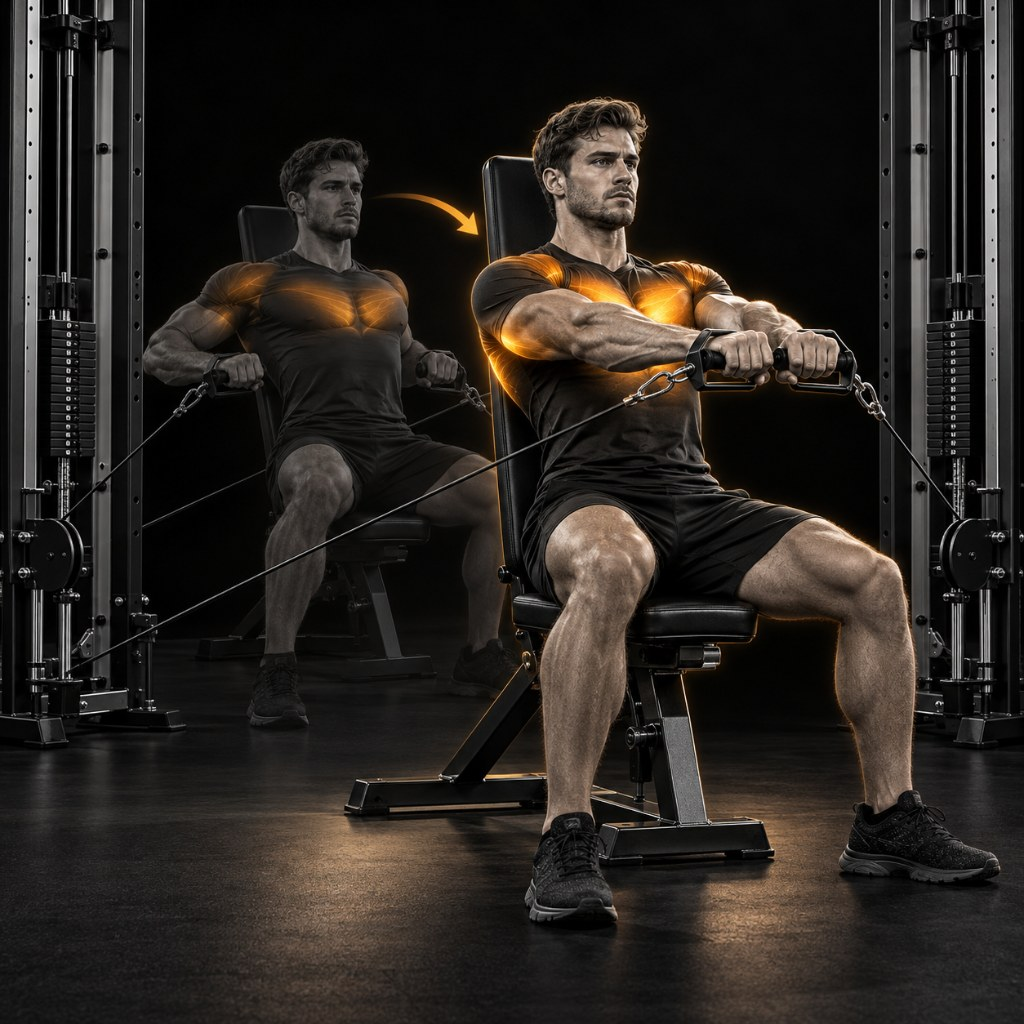
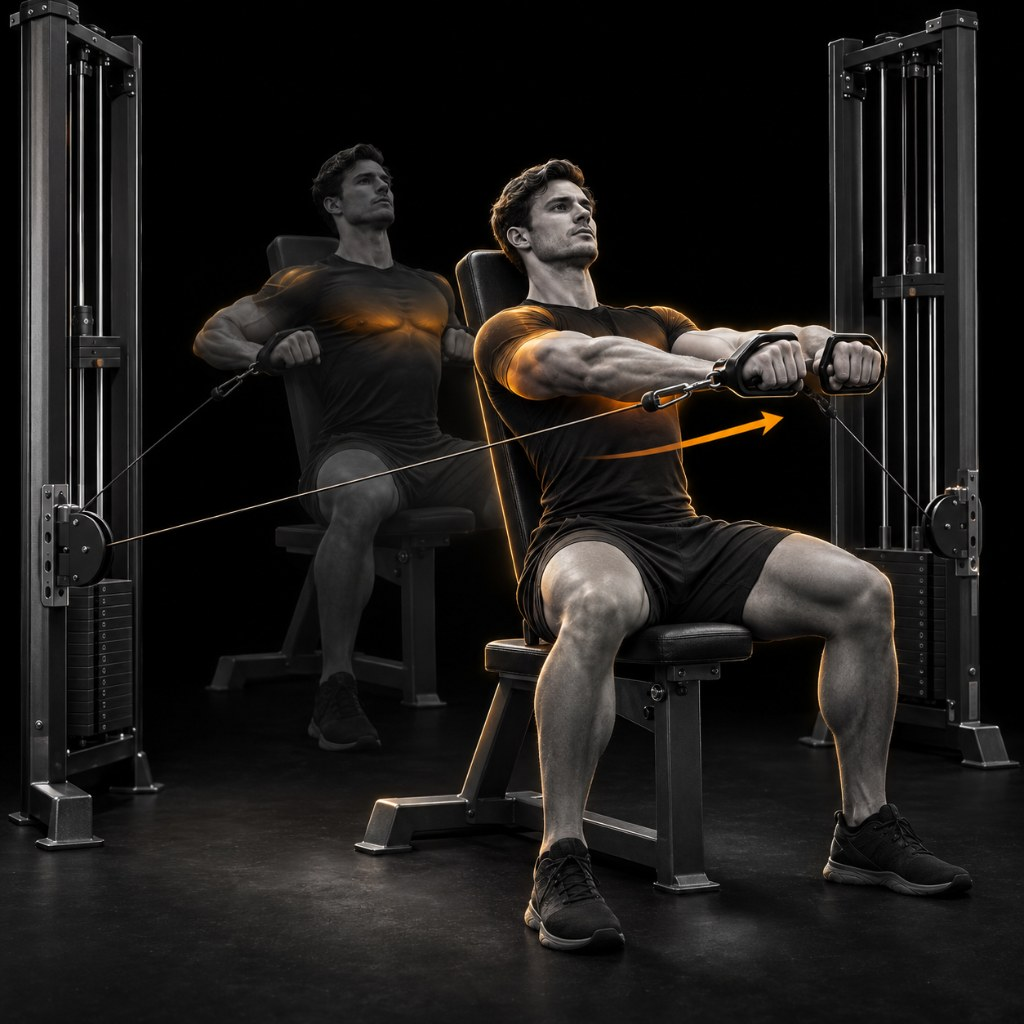
Chest Press Cable: Rollen auf ca. 45 cm (Bild Mann/Frau + Text) (31.10. 20:20)
Claude-Session: https://claude.ai/code/session_01Shd4vmsa3BFJUpncrqw4yj

diff --git a/index.html b/index.html
@@ -800,8 +800,8 @@ function ringBell(at){const c=audioCtx,T=c.currentTime+at,out=c.createDynamicsCo
  [[1,1],[2.76,.55],[5.4,.32],[8.93,.18],[13.3,.08]].forEach(([r,a])=>{const o=c.createOscillator(),g=c.createGain();o.type='sine';o.frequency.value=880*r;g.gain.setValueAtTime(.0001,T);g.gain.exponentialRampToValueAtTime(1.1*a,T+.003);g.gain.exponentialRampToValueAtTime(.0001,T+.75/Math.sqrt(r));o.connect(g);g.connect(out);o.start(T);o.stop(T+.8)})}
 function boxBell(at){[0,.17,.34].forEach(d=>ringBell(at+d))}
 function beep(){if(document.hidden)return;try{if(rawEl&&!customBuf){playRaw();return}if(!audioCtx)return;if(audioCtx.state!=='running'){const t0=Date.now();audioCtx.resume().then(()=>{if(audioCtx.state==='running'&&Date.now()-t0<1500&&!document.hidden)beepNow()}).catch(()=>{});return}beepNow()}catch(e){}}
-const APPV='31.10. 19:55'
-let _updChk=0;async function checkUpdate(){if(location.hostname!=='donpntlc.github.io'||Date.now()-_updChk<60000)return;_updChk=Date.now();try{const t=await (await fetch(location.pathname+'?u='+Date.now(),{cache:'no-store'})).text();const m=t.match(/const APPV='([^']+)'/);if(!m||m[1]===APPV)return;
+const APPV='31.10. 20:20'
+let _updChk=0;async function checkUpdate(){if(location.hostname!=='donpntlc.github.io'||Date.now()-_updChk<60000)return;_updChk=Date.now();try{const t=await (await fetch(location.pathname+'?u='+Date.now(),{cache:'no-store'})).text();const m=t.match(/const APPV='31.10. 20:20']+)'/);if(!m||m[1]===APPV)return;
  if(!S.active){toast('Neue Version wird geladen …');setTimeout(()=>location.replace(location.pathname+'?v='+Date.now()),900)}else toast('Neue Version da. Nach dem Training App neu öffnen.')}catch(e){}}
 document.addEventListener('visibilitychange',()=>{if(!document.hidden)checkUpdate()});setTimeout(checkUpdate,4000);
 function soundMode(){try{return localStorage.getItem('hantelbuch.soundmode')||'before'}catch(e){return 'before'}}
@@ -959,7 +959,7 @@ function noteHist(name){const out=[];let lastNote=null;const ss=sessions(name).s
 function slug(n){return String(n).toLowerCase().replace(/ä/g,'ae').replace(/ö/g,'oe').replace(/ü/g,'ue').replace(/ß/g,'ss').replace(/[^a-z0-9]+/g,'-').replace(/^-|-$/g,'')}
 function gender(){try{return localStorage.getItem('hantelbuch.gender')||'m'}catch(e){return 'm'}}
 const IMG_ALIAS={"Push Up": "Liegestütze", "Pull Up": "Klimmzüge", "Pull Up (Warm Up)": "Klimmzüge", "1. Pull up +kg": "Klimmzüge", "2. Pull up +kg": "Klimmzüge", "Chest Dip": "Dips", "1. Chest Dip +kg": "Dips", "2. Chest Dip +kg": "Dips", "Triceps Dip (Assisted)": "Dips", "Bicep Curl (Dumbbell)": "Kurzhantelcurls", "Bicep Curl (Cable)": "Kabelcurls", "Bicep Curl (Barbell)": "Langhantelcurls", "Lat Pulldown (Cable)": "Latzug", "Seated Wide-Grip Row (Cable)": "Kabelrudern sitzend", "Seated Close-Grip Row (Cable)": "Kabelrudern sitzend", "Low Row": "Kabelrudern sitzend", "Seated Row (Machine)": "Kabelrudern sitzend", "Incline Bench Press (Smith Machine)": "Schrägbankdrücken (Langhantel)", "Squat (Barbell)": "Kniebeuge", "Front Raise (Dumbbell)": "Frontheben", "Lateral Raise (Dumbbell)": "Seitheben", "Lateral Raise (Cable)": "Seitheben am Kabel", "Triceps Pushdown (Cable - Straight Bar)": "Trizepsdrücken am Kabel", "Triceps push down mashine": "Trizepsdrücken am Kabel", "Triceps Extension (Cable)": "Überkopf-Trizeps (Kabel)", "Stiff Leg Deadlift (Dumbbell)": "Rumänisches Kreuzheben", "Reverse Fly (Machine)": "Reverse Butterfly", "Reverse Fly (Cable)": "Reverse Butterfly", "Shoulder Press Dumbbell": "Schulterdrücken (Kurzhantel)", "Leg Extension (Machine)": "Beinstrecker", "Hack Squat": "Hackenschmidt", "Seated Leg Curl (Machine)": "Beinbeuger sitzend", "Lying Leg Curl (Machine)": "Beinbeuger liegend", "Leg Press": "Beinpresse", "Hip Adductor (Machine)": "Adduktoren (Maschine)", "Hip Abductor (Machine)": "Abduktoren (Maschine)", "Bench Press (Dumbbell)": "Bankdrücken (Kurzhantel)", "Skullcrusher (Dumbbell)": "French Press", "Deficit Deadlift (Barbell)": "Deficit Deadlift (Trap Bar)", "Chest Fly": "Butterfly (Maschine)", "Lat Pull (Single Arm) - Front": "Latzug"};
-const EXDESC={"Chest Press Cable 2. (to the ground)":["steht mittig zwischen zwei Kabeltürmen, die Rollen ganz oben eingestellt (man muss fast springen, um die Griffe zu holen). Die Ellbogen zeigen hoch Richtung Rollen. Dann drückt man die Griffe schräg nach unten Richtung Füsse und führt die Hände vor der Hüfte zusammen","untere Brust","Trizeps, vordere Schulter","Leichte Schrittstellung für Halt, Oberkörper leicht nach vorne. Unten die Hände kurz zusammendrücken und die untere Brust anspannen, dann langsam zurück nach oben."],"Chest Press (Cable)":["sitzt mittig zwischen zwei Kabeltürmen auf einer Bank (ca. 1 m vor den Türmen, Lehne ca. 75°), die Rollen sind etwa auf Kniehöhe eingestellt, je ein Griff in jeder Hand, Handflächen nach unten (Daumen zeigen nach innen). Mit leichtem Hohlkreuz drückt man die Griffe von der Brust gerade nach vorne und führt die Hände am Ende vorne zusammen","untere und mittlere Brust","vordere Schulter, Trizeps","Erst mit leichtem Gewicht die Position finden: Bank so weit vorne, dass die Kabel schon am Anfang Spannung haben. Gerade nach vorne drücken, nicht nach oben. Vorne kurz die Brust zusammendrücken, dann langsam zurück."],"Stairmaster":["steigt auf dem Stairmaster gleichmässig Stufe für Stufe, Oberkörper aufrecht, Hände nur leicht am Geländer","Gesäss, Quadrizeps","Waden, Herz-Kreislauf"],"Laufband (Steigung gehen)":["geht zügig auf dem Laufband mit hoher Steigung, ohne sich festzuhalten","Gesäss, Waden","Herz-Kreislauf"],"Kabelcurls einarmig":["steht seitlich zum Kabelturm, Rolle ganz unten, greift den Einhand-Griff und curlt ihn mit einem Arm zur Schulter, Ellbogen bleibt am Körper","Bizeps","Unterarme","Leichtes Gewicht, Ellbogen fest an der Seite. Oben kurz anspannen, langsam ablassen bis der Arm fast gestreckt ist. Erst links, dann rechts."],"Deficit Deadlift (Trap Bar)":["steht erhöht auf einer Platte in der sechseckigen Trap Bar, greift die seitlichen Griffe und hebt die Stange aus der tieferen Startposition bis zum aufrechten Stand, Rücken neutral, Druck über die ganzen Füsse","Gesäss, Quadrizeps, Rückenstrecker","Beinbeuger, oberer Rücken, Unterarme","Starte mit leichtem Gewicht und kleiner Erhöhung. Brust hoch, Hüfte und Schultern steigen gleichzeitig. Erst die Tiefe sauber beherrschen, dann Gewicht steigern."],"Dragon Flag":["liegt auf einer Flachbank, hält sich hinter dem Kopf an der Bank fest und hebt den ganzen Körper gestreckt bis auf die Schultern an, dann senkt sie ihn langsam und gerade wieder ab, ohne in der Hüfte abzuknicken","gerader Bauchmuskel, tiefe Bauchmuskulatur","Latissimus, Hüftbeuger, Gesäss","Schritt 1: Nur langsam absenken (Negativ), mit angewinkelten Knien. Schritt 2: Ein Bein gestreckt. Schritt 3: Beide Beine gestreckt. Der Körper bleibt immer eine gerade Linie, das Gewicht liegt auf den Schultern, nicht auf dem Nacken."],"Sprawl": ["lässt sich aus der Kampfstellung fallen, schiesst die Beine gestreckt nach hinten, drückt die Hüfte auf den Boden, stützt mit den Händen vorne ab und springt sofort zurück in die Kampfstellung", "Hüftbeuger, Bauch, Brust", "Schultern, Beine, Ausdauer", "Erst langsam in drei Teilen: Hände runter, Beine zurück, Hüfte runter. Kopf bleibt oben, Blick nach vorne. Dann Tempo steigern. Ziel: 10 saubere Sprawls in unter 20 Sekunden."], "Double-Leg-Shot (Ringen)": ["senkt aus der Kampfstellung die Hüfte, macht einen tiefen Schritt nach vorne (Penetration Step), das hintere Knie tippt kurz den Boden, die Arme greifen um beide Oberschenkel, der Kopf ist seitlich am Körper, dann drückt das hintere Bein nach vorne durch", "Beine, Gesäss", "Rücken, Nacken, Bauch", "Zuerst nur den Schritt an einer Linie entlang üben, ohne Partner. Rücken gerade, Kopf hoch, nie auf den Boden schauen. Wenn das sitzt, mit Partner oder Dummy den Griff und das Durchdrücken dazunehmen."], "Ringerbrücke": ["liegt auf dem Rücken, Füsse nah am Gesäss, drückt die Hüfte hoch und rollt kontrolliert auf den Kopf, sodass Nacken und Rücken einen Bogen bilden", "Nacken, Rückenstrecker", "Gesäss, Beinbeuger", "Nur auf weicher Matte. Am Anfang die Hände neben dem Kopf mit abstützen und langsam vor und zurück rollen, nie ruckartig. Mit Nackenproblemen weglassen."], "Kip-up": ["liegt auf dem Rücken, rollt die Beine über den Kopf zurück, Hände neben den Ohren, schnellt dann Beine und Hüfte explosiv nach vorne-oben, stösst sich mit den Händen ab und landet auf den Füssen", "Hüftbeuger, Bauch, Trizeps", "Schultern, Rücken", "Schritt 1: Zurückrollen und Hände neben die Ohren, ein paar Mal. Schritt 2: Beine kräftig nach vorne-oben kicken, Hüfte hoch, erst von einer erhöhten Matte aus. Schritt 3: Mit den Händen gleichzeitig abstossen und die Füsse unter den Körper ziehen. Auf weicher Matte üben."], "Technical Stand-up": ["steht aus der Bodenlage sicher auf: eine Hand hinten am Boden, der gegenüberliegende Fuss aufgestellt, Hüfte hoch, das andere Bein nach hinten durchziehen, die freie Hand bleibt oben als Deckung", "Bauch, Beine", "Schultern, Gesäss", "Beide Seiten langsam üben, Blick und Deckung immer nach vorne. Dann im Wechsel hinlegen und aufstehen, immer schneller."], "Hip Escape (Shrimp)": ["liegt auf dem Rücken, stellt einen Fuss auf, dreht sich auf die Seite und schiebt die Hüfte kräftig nach hinten weg, die Hände schieben dabei nach vorne", "schräge Bauchmuskeln, Gesäss", "Beine, Schultern", "Über die ganze Mattenlänge, die Seite jedes Mal wechseln. Die Hüfte wirklich wegschieben, nicht nur rollen."], "Sit-out (Ringen)": ["kniet in der Bankstellung, schiebt ein Bein unter dem Körper durch, dreht sich auf die Hüfte und kommt seitlich frei, Brust Richtung Boden", "Bauch, Hüftbeuger", "Schultern, Trizeps", "Erst langsam auf jeder Seite. Dann auf Kommando explosiv rausdrehen und sofort zurück in die Bank."], "Schattenboxen (Sek.)": ["boxt in der Kampfstellung gegen einen gedachten Gegner: Jab, Cross, Haken, dazu Kopfbewegung und Beinarbeit", "Schultern, Bauch", "Waden, Ausdauer", "Runden à 3 Minuten mit 1 Minute Pause. Nach jedem Schlag zurück in die Deckung, Kinn runter. Neue Kombinationen zuerst langsam und sauber."], "Boxsack (Sek.)": ["schlägt Kombinationen am Boxsack, bleibt dabei in Bewegung und hält die Deckung", "Schultern, Brust, Bauch", "Rücken, Beine, Ausdauer", "Runden à 2 bis 3 Minuten. Lieber locker und schnell als hart und langsam. Bandagen und Handschuhe tragen."], "Seilspringen (Sek.)": ["springt locker auf den Fussballen, Ellbogen nah am Körper, das Seil dreht aus den Handgelenken", "Waden", "Schultern, Ausdauer", "Erst einfache Sprünge, 30 Sekunden am Stück. Dann Wechselschritt wie beim Boxen, später Doppelsprünge."], "Burpees": ["geht in die Hocke, springt mit den Beinen nach hinten in den Liegestütz, macht einen Liegestütz, springt die Beine zurück und springt hoch", "Beine, Brust, Bauch", "Schultern, Ausdauer", "Sauber vor schnell. Für Kampfsport den Liegestütz durch einen Sprawl ersetzen, Hüfte runter statt Brust."],"Twisted Curls (Kurzhantel)":["curlt abwechselnd mit einem Arm (der andere bleibt unten), hebt die Kurzhantel bis der Ellbogen etwa im rechten Winkel ist, dreht dort das Handgelenk einmal nach innen und wieder zurück und senkt dann ab, danach der andere Arm","Bizeps, Unterarm","Brachialis"],"Bankdrücken (Langhantel)":["liegt auf der Flachbank, Füsse fest am Boden, Hände etwas breiter als schulterbreit, Unterarme senkrecht, Ellbogen ca. 45° vom Körper. Die Stange kontrolliert auf das Brustbein (Höhe Brustwarzen) senken und gerade nach oben drücken","grosser Brustmuskel","vordere Schulter, Trizeps"],"Schrägbankdrücken (Langhantel)":["liegt auf einer ca. 30° geneigten Schrägbank und drückt die Langhantel von der oberen Brust nach oben","oberer Brustmuskel","vordere Schulter, Trizeps"],"Bankdrücken (Kurzhantel)":["liegt auf der Flachbank und drückt zwei Kurzhanteln von Brusthöhe nach oben, Handflächen zeigen Richtung Füsse","grosser Brustmuskel","vordere Schulter, Trizeps"],"Schrägbankdrücken (Kurzhantel)":["liegt auf einer ca. 30° geneigten Schrägbank und drückt zwei Kurzhanteln nach oben","oberer Brustmuskel","vordere Schulter, Trizeps"],"Butterfly (Maschine)":["sitzt aufrecht an der Butterfly-Maschine und führt die leicht gebeugten Arme in einem Bogen vor der Brust zusammen","grosser Brustmuskel","vordere Schulter"],"Kabelzug-Fliegende":["steht mittig zwischen zwei Kabeltürmen, leicht vorgebeugt, und führt die Griffe in einem weiten Bogen vor der Brust zusammen","grosser Brustmuskel","vordere Schulter"],"Dips":["stützt sich am Barren, Oberkörper leicht nach vorne geneigt, senkt sich bis die Oberarme parallel zum Boden sind und drückt sich hoch","untere Brust, Trizeps","vordere Schulter"],"Liegestütze":["klassische Liegestütze, Körper in einer geraden Linie, Hände etwas breiter als schulterbreit, Brust fast am Boden","grosser Brustmuskel","Trizeps, vordere Schulter, Bauchmuskeln"],"Brustpresse (Maschine)":["sitzt an der Brustpresse und drückt die Griffe von Brusthöhe nach vorne","grosser Brustmuskel","vordere Schulter, Trizeps"],"Kreuzheben":["hebt eine beladene Langhantel vom Boden bis zum aufrechten Stand, Rücken neutral, Stange nah am Körper","Gesäss, Rückenstrecker, Beinbeuger","Quadrizeps, oberer Rücken, Unterarme"],"Klimmzüge":["hängt im Obergriff etwa schulterbreit an der Stange und zieht sich hoch, bis das Kinn über der Stange ist","breiter Rückenmuskel (Latissimus)","Bizeps, hintere Schulter, mittlerer Rücken"],"Latzug":["sitzt am Latzug, Oberschenkel fixiert, und zieht die breite Stange zur oberen Brust","breiter Rückenmuskel (Latissimus)","Bizeps, mittlerer Rücken"],"Langhantelrudern":["steht mit ca. 45° vorgebeugtem Oberkörper, Rücken neutral, und zieht die Langhantel zum Bauchnabel","Latissimus, mittlerer Rücken (Rhomboiden, mittlerer Trapez)","hintere Schulter, Bizeps, Rückenstrecker"],"Kurzhantelrudern":["stützt ein Knie und eine Hand auf der Flachbank und zieht mit dem anderen Arm eine Kurzhantel zur Hüfte","Latissimus, mittlerer Rücken","hintere Schulter, Bizeps"],"Kabelrudern sitzend":["sitzt aufrecht am Kabelzug, Füsse an der Plattform, und zieht den V-Griff zum Bauch, Schulterblätter zusammen","mittlerer Rücken, Latissimus","Bizeps, hintere Schulter"],"T-Bar-Rudern":["steht über der T-Bar, Oberkörper vorgebeugt, Rücken neutral, und zieht die Griffe zur Brust","mittlerer Rücken, Latissimus","hintere Schulter, Bizeps, Rückenstrecker"],"Face Pulls":["steht vor dem Kabelturm, Seil auf Augenhöhe, und zieht es zum Gesicht, Ellbogen hoch und nach aussen","hintere Schulter, oberer Rücken (Rhomboiden, Trapez)","Rotatorenmanschette"],"Hyperextensions":["liegt auf der 45°-Hyperextension-Bank, Hüfte am Polster, und richtet den Oberkörper bis zur geraden Linie auf","Rückenstrecker, Gesäss","Beinbeuger"],"Schulterdrücken (Langhantel)":["steht aufrecht, Bauch fest, und drückt die Langhantel von den Schultern gerade über den Kopf","vordere und seitliche Schulter","Trizeps, oberer Trapez"],"Schulterdrücken (Kurzhantel)":["sitzt aufrecht auf einer Bank mit Rückenlehne und drückt zwei Kurzhanteln von Schulterhöhe über den Kopf","vordere und seitliche Schulter","Trizeps"],"Seitheben":["steht aufrecht und hebt zwei Kurzhanteln mit leicht gebeugten Armen seitlich bis auf Schulterhöhe","seitliche Schulter","oberer Trapez"],"Seitheben am Kabel":["steht seitlich neben dem Kabelturm und hebt den Griff mit dem entfernten Arm seitlich bis auf Schulterhöhe","seitliche Schulter","oberer Trapez"],"Reverse Butterfly":["sitzt verkehrt herum auf einer kleinen Bank (Lehne senkrecht auf 90°, reicht bis unter die Brust), Brust an der Lehne, Blick zum Kabelturm, etwa eine Fusslänge hinter den Türmen. Die Rollen sind etwa auf Augenhöhe. Die Kabel werden überkreuzt gegriffen: rechte Hand nimmt das linke Kabel, linke Hand das rechte, sodass schon am Anfang volle Spannung auf der hinteren Schulter ist. Dann zieht man die Arme von oben weit nach aussen und schräg nach unten","hintere Schulter","oberer Rücken (Rhomboiden, mittlerer Trapez)","Leichtes Gewicht, Schultern unten lassen, nicht hochziehen. Die Bewegung kommt aus der hinteren Schulter, nicht aus dem Schwung. Aussen kurz halten, langsam zurück, bis sich die Arme vorne wieder kreuzen."],"Frontheben":["steht aufrecht und hebt eine Kurzhantel mit gestrecktem Arm vor dem Körper auf Schulterhöhe","vordere Schulter","oberer Brustmuskel"],"Shrugs":["steht aufrecht mit zwei schweren Kurzhanteln und zieht die Schultern gerade nach oben Richtung Ohren","oberer Trapezmuskel","Unterarme"],"Kniebeuge":["Langhantel auf dem oberen Rücken, beugt die Knie und schiebt die Hüfte nach hinten bis knapp unter parallel, Rücken neutral","Quadrizeps, Gesäss","Adduktoren, Rückenstrecker"],"Frontkniebeuge":["Langhantel vorne auf den Schultern, Ellbogen hoch, Oberkörper aufrecht, beugt die Knie tief","Quadrizeps","Gesäss, oberer Rücken, Bauchmuskeln"],"Beinpresse":["sitzt in der 45°-Beinpresse, Füsse schulterbreit auf der Plattform, und drückt das Gewicht weg","Quadrizeps, Gesäss","Beinbeuger"],"Hackenschmidt":["steht in der Hackenschmidt-Maschine, Rücken am Polster, und beugt und streckt die Knie","Quadrizeps","Gesäss"],"Rumänisches Kreuzheben":["hält die Langhantel, Knie leicht gebeugt, schiebt die Hüfte weit nach hinten und senkt die Stange entlang der Beine bis unter die Knie","Beinbeuger, Gesäss","Rückenstrecker"],"Ausfallschritte":["hält zwei Kurzhanteln und macht einen grossen Schritt nach vorne, hinteres Knie knapp über dem Boden","Quadrizeps, Gesäss","Beinbeuger, Adduktoren"],"Bulgarian Split Squat":["hinterer Fuss auf einer Bank, hält zwei Kurzhanteln und senkt sich auf dem vorderen Bein ab","Quadrizeps und Gesäss des vorderen Beins","Adduktoren"],"Step-ups":["hält zwei Kurzhanteln und steigt mit einem Bein auf eine kniehohe Box","Quadrizeps, Gesäss","Waden"],"Beinstrecker":["sitzt an der Beinstrecker-Maschine und streckt die Beine gegen das Polster","Quadrizeps",""],"Beinbeuger liegend":["liegt bäuchlings an der Beinbeuger-Maschine und zieht die Fersen Richtung Gesäss","Beinbeuger","Waden"],"Beinbeuger sitzend":["sitzt an der Beinbeuger-Maschine und drückt das Polster mit den Unterschenkeln nach unten-hinten","Beinbeuger","Waden"],"Hip Thrust":["oberer Rücken an einer Bank, Langhantel mit Polster auf der Hüfte, drückt die Hüfte nach oben bis der Körper eine gerade Linie bildet","grosser Gesässmuskel","Beinbeuger, Quadrizeps"],"Abduktoren (Maschine)":["sitzt an der Abduktoren-Maschine und drückt die Knie gegen die Polster nach aussen","äusserer Gesässmuskel (Gluteus medius)",""],"Adduktoren (Maschine)":["sitzt an der Adduktoren-Maschine und drückt die Beine gegen die Polster zusammen","Adduktoren (Oberschenkel-Innenseite)",""],"Wadenheben stehend":["steht mit den Fussballen auf einer Erhöhung in der Wadenmaschine und drückt sich auf die Zehenspitzen","Wadenmuskel (Gastrocnemius)",""],"Wadenheben sitzend":["sitzt an der Wadenmaschine, Polster auf den Oberschenkeln, und hebt die Fersen an","Schollenmuskel (Soleus)","Gastrocnemius"],"Langhantelcurls":["steht aufrecht, Ellbogen am Körper, und curlt die Langhantel im Untergriff zur Brust","Bizeps","Unterarme"],"Kurzhantelcurls":["steht aufrecht und curlt zwei Kurzhanteln im Untergriff, Ellbogen bleiben am Körper","Bizeps","Unterarme"],"Hammercurls":["steht aufrecht und curlt zwei Kurzhanteln im neutralen Griff, Daumen zeigen nach oben","Oberarmmuskel (Brachialis), Unterarm (Brachioradialis)","Bizeps"],"Kabelcurls":["steht vor dem Kabelturm und curlt die gerade Stange vom unteren Kabel zur Brust","Bizeps","Unterarme"],"Scottcurls":["sitzt an der Scottbank, Oberarme auf dem Polster, und curlt eine SZ-Stange nach oben","Bizeps","Brachialis"],"Trizepsdrücken am Kabel":["steht vor dem Kabelturm, Ellbogen fest am Körper, und drückt das Seil nach unten bis die Arme gestreckt sind","Trizeps",""],"French Press":["liegt auf der Flachbank und senkt eine SZ-Stange kontrolliert Richtung Stirn, Oberarme bleiben senkrecht","Trizeps",""],"Enges Bankdrücken":["liegt auf der Flachbank und drückt die Langhantel mit schulterbreitem Griff, Ellbogen nah am Körper","Trizeps","Brust, vordere Schulter"],"Überkopf-Trizeps (Kabel)":["steht mit dem Rücken zum Kabelturm, das lange Seil am ganz unten eingestellten Kabel, hält es hinter dem Kopf und streckt die Arme über den Kopf nach vorne-oben","Trizeps (langer Kopf)",""],"Plank (Sek.)":["Unterarmstütz, Körper in einer geraden Linie von Kopf bis Ferse, Bauch fest","gerader Bauchmuskel, tiefe Bauchmuskulatur","Schultern, Gesäss"],"Hängendes Beinheben":["hängt an der Klimmzugstange und hebt die gestreckten Beine bis auf Hüfthöhe oder höher","unterer Bauchmuskel, Hüftbeuger","Unterarme"],"Cable Crunch":["kniet vor dem Kabelturm, Seil neben dem Kopf, und rollt den Oberkörper Richtung Knie ein","gerader Bauchmuskel","schräge Bauchmuskeln"],"Ab Wheel":["kniet und rollt das Bauchrad mit gestreckten Armen nach vorne aus, Rücken neutral","gerader Bauchmuskel, tiefe Bauchmuskulatur","Latissimus, Schultern"],"Russian Twists":["sitzt mit angehobenen Füssen, Oberkörper zurückgelehnt, und dreht eine Gewichtsscheibe von Seite zu Seite","schräge Bauchmuskeln","gerader Bauchmuskel"],"Pallof Press":["steht seitlich zum Kabelturm und drückt den Griff vor der Brust gerade nach vorne, ohne sich mitzudrehen","schräge Bauchmuskeln, tiefe Bauchmuskulatur","Schultern"],"Power Clean":["zieht die Langhantel explosiv vom Boden und fängt sie in der Frontablage auf den Schultern, zeige den Moment der vollen Hüftstreckung","Gesäss, Beinbeuger, Quadrizeps, Trapez","Waden, Schultern, Rückenstrecker"],"Kettlebell Swing":["schwingt die Kettlebell mit explosiver Hüftstreckung bis auf Brusthöhe, Arme locker gestreckt","Gesäss, Beinbeuger","Rückenstrecker, Bauchmuskeln, Schultern"],"Box Jumps":["springt beidbeinig explosiv auf eine hohe Box, zeige den Moment des Absprungs","Quadrizeps, Gesäss, Waden","Beinbeuger"],"Broad Jumps":["beidbeiniger Weitsprung aus dem Stand, zeige die volle Streckung in der Flugphase","Gesäss, Quadrizeps, Waden","Beinbeuger, Schultern"],"Sled Push":["schiebt einen beladenen Schlitten an den zwei Griffstangen (eine Hand pro Stange), Arme gestreckt, Körper stark nach vorne geneigt","Quadrizeps, Gesäss, Waden","Bauchmuskeln, Schultern"],"Medizinball-Wurf":["steht seitlich zur Wand und wirft einen Medizinball mit explosiver Hüft- und Rumpfrotation","schräge Bauchmuskeln, Gesäss","Schultern, Brust"],"Sprints (m)":["sprintet mit hohem Kniehub und kräftigem Armeinsatz, zeige die volle Laufphase","Beinbeuger, Gesäss, Quadrizeps, Waden","Hüftbeuger"],"Farmer's Walk":["geht aufrecht mit je einer schweren Kurzhantel in jeder Hand","Unterarme (Griffkraft), oberer Trapez, Bauchmuskeln","Waden, Gesäss"]};
+const EXDESC={"Chest Press Cable 2. (to the ground)":["steht mittig zwischen zwei Kabeltürmen, die Rollen ganz oben eingestellt (man muss fast springen, um die Griffe zu holen). Die Ellbogen zeigen hoch Richtung Rollen. Dann drückt man die Griffe schräg nach unten Richtung Füsse und führt die Hände vor der Hüfte zusammen","untere Brust","Trizeps, vordere Schulter","Leichte Schrittstellung für Halt, Oberkörper leicht nach vorne. Unten die Hände kurz zusammendrücken und die untere Brust anspannen, dann langsam zurück nach oben."],"Chest Press (Cable)":["sitzt mittig zwischen zwei Kabeltürmen auf einer Bank (ca. 1 m vor den Türmen, Lehne ca. 75°), die Rollen sind auf ca. 45 cm Höhe eingestellt (etwa Sitzhöhe), je ein Griff in jeder Hand, Handflächen nach unten (Daumen zeigen nach innen). Mit leichtem Hohlkreuz drückt man die Griffe von der Brust gerade nach vorne und führt die Hände am Ende vorne zusammen","untere und mittlere Brust","vordere Schulter, Trizeps","Erst mit leichtem Gewicht die Position finden: Bank so weit vorne, dass die Kabel schon am Anfang Spannung haben. Gerade nach vorne drücken, nicht nach oben. Vorne kurz die Brust zusammendrücken, dann langsam zurück."],"Stairmaster":["steigt auf dem Stairmaster gleichmässig Stufe für Stufe, Oberkörper aufrecht, Hände nur leicht am Geländer","Gesäss, Quadrizeps","Waden, Herz-Kreislauf"],"Laufband (Steigung gehen)":["geht zügig auf dem Laufband mit hoher Steigung, ohne sich festzuhalten","Gesäss, Waden","Herz-Kreislauf"],"Kabelcurls einarmig":["steht seitlich zum Kabelturm, Rolle ganz unten, greift den Einhand-Griff und curlt ihn mit einem Arm zur Schulter, Ellbogen bleibt am Körper","Bizeps","Unterarme","Leichtes Gewicht, Ellbogen fest an der Seite. Oben kurz anspannen, langsam ablassen bis der Arm fast gestreckt ist. Erst links, dann rechts."],"Deficit Deadlift (Trap Bar)":["steht erhöht auf einer Platte in der sechseckigen Trap Bar, greift die seitlichen Griffe und hebt die Stange aus der tieferen Startposition bis zum aufrechten Stand, Rücken neutral, Druck über die ganzen Füsse","Gesäss, Quadrizeps, Rückenstrecker","Beinbeuger, oberer Rücken, Unterarme","Starte mit leichtem Gewicht und kleiner Erhöhung. Brust hoch, Hüfte und Schultern steigen gleichzeitig. Erst die Tiefe sauber beherrschen, dann Gewicht steigern."],"Dragon Flag":["liegt auf einer Flachbank, hält sich hinter dem Kopf an der Bank fest und hebt den ganzen Körper gestreckt bis auf die Schultern an, dann senkt sie ihn langsam und gerade wieder ab, ohne in der Hüfte abzuknicken","gerader Bauchmuskel, tiefe Bauchmuskulatur","Latissimus, Hüftbeuger, Gesäss","Schritt 1: Nur langsam absenken (Negativ), mit angewinkelten Knien. Schritt 2: Ein Bein gestreckt. Schritt 3: Beide Beine gestreckt. Der Körper bleibt immer eine gerade Linie, das Gewicht liegt auf den Schultern, nicht auf dem Nacken."],"Sprawl": ["lässt sich aus der Kampfstellung fallen, schiesst die Beine gestreckt nach hinten, drückt die Hüfte auf den Boden, stützt mit den Händen vorne ab und springt sofort zurück in die Kampfstellung", "Hüftbeuger, Bauch, Brust", "Schultern, Beine, Ausdauer", "Erst langsam in drei Teilen: Hände runter, Beine zurück, Hüfte runter. Kopf bleibt oben, Blick nach vorne. Dann Tempo steigern. Ziel: 10 saubere Sprawls in unter 20 Sekunden."], "Double-Leg-Shot (Ringen)": ["senkt aus der Kampfstellung die Hüfte, macht einen tiefen Schritt nach vorne (Penetration Step), das hintere Knie tippt kurz den Boden, die Arme greifen um beide Oberschenkel, der Kopf ist seitlich am Körper, dann drückt das hintere Bein nach vorne durch", "Beine, Gesäss", "Rücken, Nacken, Bauch", "Zuerst nur den Schritt an einer Linie entlang üben, ohne Partner. Rücken gerade, Kopf hoch, nie auf den Boden schauen. Wenn das sitzt, mit Partner oder Dummy den Griff und das Durchdrücken dazunehmen."], "Ringerbrücke": ["liegt auf dem Rücken, Füsse nah am Gesäss, drückt die Hüfte hoch und rollt kontrolliert auf den Kopf, sodass Nacken und Rücken einen Bogen bilden", "Nacken, Rückenstrecker", "Gesäss, Beinbeuger", "Nur auf weicher Matte. Am Anfang die Hände neben dem Kopf mit abstützen und langsam vor und zurück rollen, nie ruckartig. Mit Nackenproblemen weglassen."], "Kip-up": ["liegt auf dem Rücken, rollt die Beine über den Kopf zurück, Hände neben den Ohren, schnellt dann Beine und Hüfte explosiv nach vorne-oben, stösst sich mit den Händen ab und landet auf den Füssen", "Hüftbeuger, Bauch, Trizeps", "Schultern, Rücken", "Schritt 1: Zurückrollen und Hände neben die Ohren, ein paar Mal. Schritt 2: Beine kräftig nach vorne-oben kicken, Hüfte hoch, erst von einer erhöhten Matte aus. Schritt 3: Mit den Händen gleichzeitig abstossen und die Füsse unter den Körper ziehen. Auf weicher Matte üben."], "Technical Stand-up": ["steht aus der Bodenlage sicher auf: eine Hand hinten am Boden, der gegenüberliegende Fuss aufgestellt, Hüfte hoch, das andere Bein nach hinten durchziehen, die freie Hand bleibt oben als Deckung", "Bauch, Beine", "Schultern, Gesäss", "Beide Seiten langsam üben, Blick und Deckung immer nach vorne. Dann im Wechsel hinlegen und aufstehen, immer schneller."], "Hip Escape (Shrimp)": ["liegt auf dem Rücken, stellt einen Fuss auf, dreht sich auf die Seite und schiebt die Hüfte kräftig nach hinten weg, die Hände schieben dabei nach vorne", "schräge Bauchmuskeln, Gesäss", "Beine, Schultern", "Über die ganze Mattenlänge, die Seite jedes Mal wechseln. Die Hüfte wirklich wegschieben, nicht nur rollen."], "Sit-out (Ringen)": ["kniet in der Bankstellung, schiebt ein Bein unter dem Körper durch, dreht sich auf die Hüfte und kommt seitlich frei, Brust Richtung Boden", "Bauch, Hüftbeuger", "Schultern, Trizeps", "Erst langsam auf jeder Seite. Dann auf Kommando explosiv rausdrehen und sofort zurück in die Bank."], "Schattenboxen (Sek.)": ["boxt in der Kampfstellung gegen einen gedachten Gegner: Jab, Cross, Haken, dazu Kopfbewegung und Beinarbeit", "Schultern, Bauch", "Waden, Ausdauer", "Runden à 3 Minuten mit 1 Minute Pause. Nach jedem Schlag zurück in die Deckung, Kinn runter. Neue Kombinationen zuerst langsam und sauber."], "Boxsack (Sek.)": ["schlägt Kombinationen am Boxsack, bleibt dabei in Bewegung und hält die Deckung", "Schultern, Brust, Bauch", "Rücken, Beine, Ausdauer", "Runden à 2 bis 3 Minuten. Lieber locker und schnell als hart und langsam. Bandagen und Handschuhe tragen."], "Seilspringen (Sek.)": ["springt locker auf den Fussballen, Ellbogen nah am Körper, das Seil dreht aus den Handgelenken", "Waden", "Schultern, Ausdauer", "Erst einfache Sprünge, 30 Sekunden am Stück. Dann Wechselschritt wie beim Boxen, später Doppelsprünge."], "Burpees": ["geht in die Hocke, springt mit den Beinen nach hinten in den Liegestütz, macht einen Liegestütz, springt die Beine zurück und springt hoch", "Beine, Brust, Bauch", "Schultern, Ausdauer", "Sauber vor schnell. Für Kampfsport den Liegestütz durch einen Sprawl ersetzen, Hüfte runter statt Brust."],"Twisted Curls (Kurzhantel)":["curlt abwechselnd mit einem Arm (der andere bleibt unten), hebt die Kurzhantel bis der Ellbogen etwa im rechten Winkel ist, dreht dort das Handgelenk einmal nach innen und wieder zurück und senkt dann ab, danach der andere Arm","Bizeps, Unterarm","Brachialis"],"Bankdrücken (Langhantel)":["liegt auf der Flachbank, Füsse fest am Boden, Hände etwas breiter als schulterbreit, Unterarme senkrecht, Ellbogen ca. 45° vom Körper. Die Stange kontrolliert auf das Brustbein (Höhe Brustwarzen) senken und gerade nach oben drücken","grosser Brustmuskel","vordere Schulter, Trizeps"],"Schrägbankdrücken (Langhantel)":["liegt auf einer ca. 30° geneigten Schrägbank und drückt die Langhantel von der oberen Brust nach oben","oberer Brustmuskel","vordere Schulter, Trizeps"],"Bankdrücken (Kurzhantel)":["liegt auf der Flachbank und drückt zwei Kurzhanteln von Brusthöhe nach oben, Handflächen zeigen Richtung Füsse","grosser Brustmuskel","vordere Schulter, Trizeps"],"Schrägbankdrücken (Kurzhantel)":["liegt auf einer ca. 30° geneigten Schrägbank und drückt zwei Kurzhanteln nach oben","oberer Brustmuskel","vordere Schulter, Trizeps"],"Butterfly (Maschine)":["sitzt aufrecht an der Butterfly-Maschine und führt die leicht gebeugten Arme in einem Bogen vor der Brust zusammen","grosser Brustmuskel","vordere Schulter"],"Kabelzug-Fliegende":["steht mittig zwischen zwei Kabeltürmen, leicht vorgebeugt, und führt die Griffe in einem weiten Bogen vor der Brust zusammen","grosser Brustmuskel","vordere Schulter"],"Dips":["stützt sich am Barren, Oberkörper leicht nach vorne geneigt, senkt sich bis die Oberarme parallel zum Boden sind und drückt sich hoch","untere Brust, Trizeps","vordere Schulter"],"Liegestütze":["klassische Liegestütze, Körper in einer geraden Linie, Hände etwas breiter als schulterbreit, Brust fast am Boden","grosser Brustmuskel","Trizeps, vordere Schulter, Bauchmuskeln"],"Brustpresse (Maschine)":["sitzt an der Brustpresse und drückt die Griffe von Brusthöhe nach vorne","grosser Brustmuskel","vordere Schulter, Trizeps"],"Kreuzheben":["hebt eine beladene Langhantel vom Boden bis zum aufrechten Stand, Rücken neutral, Stange nah am Körper","Gesäss, Rückenstrecker, Beinbeuger","Quadrizeps, oberer Rücken, Unterarme"],"Klimmzüge":["hängt im Obergriff etwa schulterbreit an der Stange und zieht sich hoch, bis das Kinn über der Stange ist","breiter Rückenmuskel (Latissimus)","Bizeps, hintere Schulter, mittlerer Rücken"],"Latzug":["sitzt am Latzug, Oberschenkel fixiert, und zieht die breite Stange zur oberen Brust","breiter Rückenmuskel (Latissimus)","Bizeps, mittlerer Rücken"],"Langhantelrudern":["steht mit ca. 45° vorgebeugtem Oberkörper, Rücken neutral, und zieht die Langhantel zum Bauchnabel","Latissimus, mittlerer Rücken (Rhomboiden, mittlerer Trapez)","hintere Schulter, Bizeps, Rückenstrecker"],"Kurzhantelrudern":["stützt ein Knie und eine Hand auf der Flachbank und zieht mit dem anderen Arm eine Kurzhantel zur Hüfte","Latissimus, mittlerer Rücken","hintere Schulter, Bizeps"],"Kabelrudern sitzend":["sitzt aufrecht am Kabelzug, Füsse an der Plattform, und zieht den V-Griff zum Bauch, Schulterblätter zusammen","mittlerer Rücken, Latissimus","Bizeps, hintere Schulter"],"T-Bar-Rudern":["steht über der T-Bar, Oberkörper vorgebeugt, Rücken neutral, und zieht die Griffe zur Brust","mittlerer Rücken, Latissimus","hintere Schulter, Bizeps, Rückenstrecker"],"Face Pulls":["steht vor dem Kabelturm, Seil auf Augenhöhe, und zieht es zum Gesicht, Ellbogen hoch und nach aussen","hintere Schulter, oberer Rücken (Rhomboiden, Trapez)","Rotatorenmanschette"],"Hyperextensions":["liegt auf der 45°-Hyperextension-Bank, Hüfte am Polster, und richtet den Oberkörper bis zur geraden Linie auf","Rückenstrecker, Gesäss","Beinbeuger"],"Schulterdrücken (Langhantel)":["steht aufrecht, Bauch fest, und drückt die Langhantel von den Schultern gerade über den Kopf","vordere und seitliche Schulter","Trizeps, oberer Trapez"],"Schulterdrücken (Kurzhantel)":["sitzt aufrecht auf einer Bank mit Rückenlehne und drückt zwei Kurzhanteln von Schulterhöhe über den Kopf","vordere und seitliche Schulter","Trizeps"],"Seitheben":["steht aufrecht und hebt zwei Kurzhanteln mit leicht gebeugten Armen seitlich bis auf Schulterhöhe","seitliche Schulter","oberer Trapez"],"Seitheben am Kabel":["steht seitlich neben dem Kabelturm und hebt den Griff mit dem entfernten Arm seitlich bis auf Schulterhöhe","seitliche Schulter","oberer Trapez"],"Reverse Butterfly":["sitzt verkehrt herum auf einer kleinen Bank (Lehne senkrecht auf 90°, reicht bis unter die Brust), Brust an der Lehne, Blick zum Kabelturm, etwa eine Fusslänge hinter den Türmen. Die Rollen sind etwa auf Augenhöhe. Die Kabel werden überkreuzt gegriffen: rechte Hand nimmt das linke Kabel, linke Hand das rechte, sodass schon am Anfang volle Spannung auf der hinteren Schulter ist. Dann zieht man die Arme von oben weit nach aussen und schräg nach unten","hintere Schulter","oberer Rücken (Rhomboiden, mittlerer Trapez)","Leichtes Gewicht, Schultern unten lassen, nicht hochziehen. Die Bewegung kommt aus der hinteren Schulter, nicht aus dem Schwung. Aussen kurz halten, langsam zurück, bis sich die Arme vorne wieder kreuzen."],"Frontheben":["steht aufrecht und hebt eine Kurzhantel mit gestrecktem Arm vor dem Körper auf Schulterhöhe","vordere Schulter","oberer Brustmuskel"],"Shrugs":["steht aufrecht mit zwei schweren Kurzhanteln und zieht die Schultern gerade nach oben Richtung Ohren","oberer Trapezmuskel","Unterarme"],"Kniebeuge":["Langhantel auf dem oberen Rücken, beugt die Knie und schiebt die Hüfte nach hinten bis knapp unter parallel, Rücken neutral","Quadrizeps, Gesäss","Adduktoren, Rückenstrecker"],"Frontkniebeuge":["Langhantel vorne auf den Schultern, Ellbogen hoch, Oberkörper aufrecht, beugt die Knie tief","Quadrizeps","Gesäss, oberer Rücken, Bauchmuskeln"],"Beinpresse":["sitzt in der 45°-Beinpresse, Füsse schulterbreit auf der Plattform, und drückt das Gewicht weg","Quadrizeps, Gesäss","Beinbeuger"],"Hackenschmidt":["steht in der Hackenschmidt-Maschine, Rücken am Polster, und beugt und streckt die Knie","Quadrizeps","Gesäss"],"Rumänisches Kreuzheben":["hält die Langhantel, Knie leicht gebeugt, schiebt die Hüfte weit nach hinten und senkt die Stange entlang der Beine bis unter die Knie","Beinbeuger, Gesäss","Rückenstrecker"],"Ausfallschritte":["hält zwei Kurzhanteln und macht einen grossen Schritt nach vorne, hinteres Knie knapp über dem Boden","Quadrizeps, Gesäss","Beinbeuger, Adduktoren"],"Bulgarian Split Squat":["hinterer Fuss auf einer Bank, hält zwei Kurzhanteln und senkt sich auf dem vorderen Bein ab","Quadrizeps und Gesäss des vorderen Beins","Adduktoren"],"Step-ups":["hält zwei Kurzhanteln und steigt mit einem Bein auf eine kniehohe Box","Quadrizeps, Gesäss","Waden"],"Beinstrecker":["sitzt an der Beinstrecker-Maschine und streckt die Beine gegen das Polster","Quadrizeps",""],"Beinbeuger liegend":["liegt bäuchlings an der Beinbeuger-Maschine und zieht die Fersen Richtung Gesäss","Beinbeuger","Waden"],"Beinbeuger sitzend":["sitzt an der Beinbeuger-Maschine und drückt das Polster mit den Unterschenkeln nach unten-hinten","Beinbeuger","Waden"],"Hip Thrust":["oberer Rücken an einer Bank, Langhantel mit Polster auf der Hüfte, drückt die Hüfte nach oben bis der Körper eine gerade Linie bildet","grosser Gesässmuskel","Beinbeuger, Quadrizeps"],"Abduktoren (Maschine)":["sitzt an der Abduktoren-Maschine und drückt die Knie gegen die Polster nach aussen","äusserer Gesässmuskel (Gluteus medius)",""],"Adduktoren (Maschine)":["sitzt an der Adduktoren-Maschine und drückt die Beine gegen die Polster zusammen","Adduktoren (Oberschenkel-Innenseite)",""],"Wadenheben stehend":["steht mit den Fussballen auf einer Erhöhung in der Wadenmaschine und drückt sich auf die Zehenspitzen","Wadenmuskel (Gastrocnemius)",""],"Wadenheben sitzend":["sitzt an der Wadenmaschine, Polster auf den Oberschenkeln, und hebt die Fersen an","Schollenmuskel (Soleus)","Gastrocnemius"],"Langhantelcurls":["steht aufrecht, Ellbogen am Körper, und curlt die Langhantel im Untergriff zur Brust","Bizeps","Unterarme"],"Kurzhantelcurls":["steht aufrecht und curlt zwei Kurzhanteln im Untergriff, Ellbogen bleiben am Körper","Bizeps","Unterarme"],"Hammercurls":["steht aufrecht und curlt zwei Kurzhanteln im neutralen Griff, Daumen zeigen nach oben","Oberarmmuskel (Brachialis), Unterarm (Brachioradialis)","Bizeps"],"Kabelcurls":["steht vor dem Kabelturm und curlt die gerade Stange vom unteren Kabel zur Brust","Bizeps","Unterarme"],"Scottcurls":["sitzt an der Scottbank, Oberarme auf dem Polster, und curlt eine SZ-Stange nach oben","Bizeps","Brachialis"],"Trizepsdrücken am Kabel":["steht vor dem Kabelturm, Ellbogen fest am Körper, und drückt das Seil nach unten bis die Arme gestreckt sind","Trizeps",""],"French Press":["liegt auf der Flachbank und senkt eine SZ-Stange kontrolliert Richtung Stirn, Oberarme bleiben senkrecht","Trizeps",""],"Enges Bankdrücken":["liegt auf der Flachbank und drückt die Langhantel mit schulterbreitem Griff, Ellbogen nah am Körper","Trizeps","Brust, vordere Schulter"],"Überkopf-Trizeps (Kabel)":["steht mit dem Rücken zum Kabelturm, das lange Seil am ganz unten eingestellten Kabel, hält es hinter dem Kopf und streckt die Arme über den Kopf nach vorne-oben","Trizeps (langer Kopf)",""],"Plank (Sek.)":["Unterarmstütz, Körper in einer geraden Linie von Kopf bis Ferse, Bauch fest","gerader Bauchmuskel, tiefe Bauchmuskulatur","Schultern, Gesäss"],"Hängendes Beinheben":["hängt an der Klimmzugstange und hebt die gestreckten Beine bis auf Hüfthöhe oder höher","unterer Bauchmuskel, Hüftbeuger","Unterarme"],"Cable Crunch":["kniet vor dem Kabelturm, Seil neben dem Kopf, und rollt den Oberkörper Richtung Knie ein","gerader Bauchmuskel","schräge Bauchmuskeln"],"Ab Wheel":["kniet und rollt das Bauchrad mit gestreckten Armen nach vorne aus, Rücken neutral","gerader Bauchmuskel, tiefe Bauchmuskulatur","Latissimus, Schultern"],"Russian Twists":["sitzt mit angehobenen Füssen, Oberkörper zurückgelehnt, und dreht eine Gewichtsscheibe von Seite zu Seite","schräge Bauchmuskeln","gerader Bauchmuskel"],"Pallof Press":["steht seitlich zum Kabelturm und drückt den Griff vor der Brust gerade nach vorne, ohne sich mitzudrehen","schräge Bauchmuskeln, tiefe Bauchmuskulatur","Schultern"],"Power Clean":["zieht die Langhantel explosiv vom Boden und fängt sie in der Frontablage auf den Schultern, zeige den Moment der vollen Hüftstreckung","Gesäss, Beinbeuger, Quadrizeps, Trapez","Waden, Schultern, Rückenstrecker"],"Kettlebell Swing":["schwingt die Kettlebell mit explosiver Hüftstreckung bis auf Brusthöhe, Arme locker gestreckt","Gesäss, Beinbeuger","Rückenstrecker, Bauchmuskeln, Schultern"],"Box Jumps":["springt beidbeinig explosiv auf eine hohe Box, zeige den Moment des Absprungs","Quadrizeps, Gesäss, Waden","Beinbeuger"],"Broad Jumps":["beidbeiniger Weitsprung aus dem Stand, zeige die volle Streckung in der Flugphase","Gesäss, Quadrizeps, Waden","Beinbeuger, Schultern"],"Sled Push":["schiebt einen beladenen Schlitten an den zwei Griffstangen (eine Hand pro Stange), Arme gestreckt, Körper stark nach vorne geneigt","Quadrizeps, Gesäss, Waden","Bauchmuskeln, Schultern"],"Medizinball-Wurf":["steht seitlich zur Wand und wirft einen Medizinball mit explosiver Hüft- und Rumpfrotation","schräge Bauchmuskeln, Gesäss","Schultern, Brust"],"Sprints (m)":["sprintet mit hohem Kniehub und kräftigem Armeinsatz, zeige die volle Laufphase","Beinbeuger, Gesäss, Quadrizeps, Waden","Hüftbeuger"],"Farmer's Walk":["geht aufrecht mit je einer schweren Kurzhantel in jeder Hand","Unterarme (Griffkraft), oberer Trapez, Bauchmuskeln","Waden, Gesäss"]};
 function baseName(n){return String(n||'').split(' · ')[0].trim()}
 function variantOf(n){const i=String(n||'').indexOf(' · ');return i<0?'':String(n).slice(i+3).trim()}
 function exDesc(n){const b=baseName(n);return EXDESC[b]||EXDESC[IMG_ALIAS[b]]||null}
